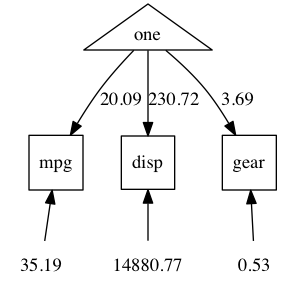
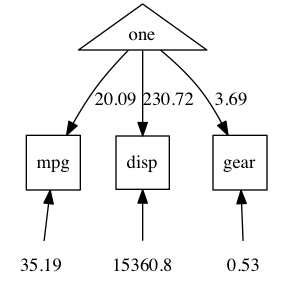
make the example work

diff --git a/_posts/2020-11-30-First-steps.md b/_posts/2020-11-30-First-steps.md
@@ -16,9 +16,10 @@ If you haven't installed devtools yet, [do that now](/models/tutorial/2020/12/10
 Once you have `devtools`, then you can update and load `umx`:
 
 ``` splus
-# install and load umx
-devtools::install_github("tbates/umx")
+# load umx library
 library("umx")
+# note: the umx philosophy extends to help ?umx is not just boilerplate documentation.
+# All functions are fully documented, with awesome complete examples.
 ```
 
 <a name="overview"></a>
@@ -26,122 +27,144 @@ library("umx")
 Now, let's build, run, summarize, modify/compare, and display a model. Real science is all about comparing different theoretical predictions: the idea that there are, say, two forms of dyslexia is tested not against a null hypothesis that there are none, but against some competing model: that there is one form, for instance. Whereas the answer to "does this theory fit better than no theory" is always "yes" if we have enough subjects, that's an incredibly low bar, and doesn't lead to increases in knowledge: these come from pitting one model (human-created theory) against another, to see which is closer to the truth. This bed-rock metric of closer-further gives us a boot strap to iteratively choose the ideas (products of human creativity) that are ever closer to reality. 
 
 ### Two theories to compare
-Here, we begin with two patsy ideas: one that miles/gallon (mpg) goes up as car engine size goes down **and** as number of cylinders goes up (cyl). A contrasting theory might predict that it is only the number of cylinders that matters. We can drop number of cylinders to test the idea that the only determinant (in this confounded play dataset) of mpg is inches<sup>3</sup> of displacement.
+Here, we begin with two patsy ideas: one that miles/gallon (mpg) goes up as car engine size goes down **and** as car weight goes down (weight). A contrasting theory might predict that it is only weight that matters, not engine capacity. We can drop capacity to test the idea that the only determinant (in this confounded play dataset) of mpg is weight.
 
-We will use the built-in [mtcars](https://stat.ethz.ch/R-manual/R-devel/library/datasets/html/mtcars.html) data set. miles/gallon is `mpg`, displacement is `disp`, and cylinders is `disp`, with number of cylinders just coming along as a side-effect of increasing displacement.
+We will use the built-in [mtcars](https://stat.ethz.ch/R-manual/R-devel/library/datasets/html/mtcars.html) data set. miles/gallon is `mpg`, displacement is `disp`, and weight is `wt`.
 
 We'll use umx to build both models, and compare them.
 
 #### Starting with what you know
 
-In `lm`, model 1 would be "mpg ~ disp + gear", and model 2, "mpg ~ disp"
+In `lm`, model 1 would be "mpg ~ disp + wt". Model 2 would be "mpg ~ disp"
 
 [Sewall Wright](http://en.wikipedia.org/wiki/Sewall_Wright"Wikipedia Entry: Sewall Wright") invented SEM to allow us to think in explicit graphs. So, here's what that language implies:
 
 ![model of mpg](/media/1_make_a_model/mpg_1a_theory.png "A model of Miles/gallon")
 
-Let's start off with something very simple: the means and variances of three raw variables.
+Let's start off with something very simple: the means and variances of three raw variables. This is also called an "independence model".
 
-With umxPath, you can specify a variance (a 2-headed path originating and temrinating on one variable) with the argument "var = "
-To specify a mean (a path from the constant one to a varaible), just use the argument "means ="
+The equivalent of `lm` is `umxRAM`. Like lm, we're going to feed this model container a data set (`data = mtcars`). The string "my_first_model" is a name that is used to refer to the model, and which is used in output as well. Just make it informative.
+
+``` splus
+m1 <- umxRAM("my_first_model", data = mtcars)
+```
+
+Now, instead of just one formula, we're going to give `umxRAM` a list of  `umxPaths` to specify all the lines, boxes, and circles in the figure above.
+
+With `umxPath`, you can specify a variance (a 2-headed path originating and terminating on one variable) with the argument `var =`
+To specify a mean (a path from the constant one to a variable), just use the argument `means =`
 
 ``` splus
 manifests = c("disp", "gear", "mpg")
-m1 <- umxRAM("big_motor_bad_mpg", data = mtcars[, manifests],
+m1 <- umxRAM("big_motor_bad_mpg", data = mtcars,
 	umxPath(var   = manifests),
 	umxPath(means = manifests)
 )
 m1 = mxRun(m1)
-plot(m1, std=F)
+plot(m1, std = F)
 ```
+
+Now we can run this model with `mxRun`, get a summary, and even plot the output.
+
+``` splus
+m1 = mxRun(m1)
+umxSummary(m1)
+plot(m1, std = F)
+```
+
+nb: *You'll need to have GraphViz installed for plot to work flawlessly: if it doesn't work, don't worry. Later posts will explain how to get great graphics*!
+
+Here's the plot:
 
 ![independence model](/media/1_make_a_model/independence model.png "Independence model of three variables")
 
-This should also be a warning to us: the variances are very different from one another... Good advice to help the optimiser get to a solution in our real model might be to convert the displacement into litres (x 0.0163871). We'll ignore this for now.
+This should also be a warning to us: the variances are very different from one another... Good advice to help the optimiser get to a solution in our real model might be to convert the displacement into litres. We'll ignore this for now.
 
-As you can see, this is an "independence model": No covariances were included, so all variables are modeled as uncorrelated. It would fit poorly in this case.
+As you can see, this is an "independence model": No covariances were included, so all variables are modelled as uncorrelated. It would fit poorly in this case.
 
 ``` splus
 umxSummary(m1)
 ```
+χ²(90) = 52.39, p < 0.001; CFI = 0; TLI = 0; RMSEA = 0.717
 
-χ²(90) = 52.37, p < 0.001; CFI = 0; TLI = 0; RMSEA = 0.717
-
-Yikes... clearly some unmodelled covariance here... Let's apply our theorized models.
+Yikes... clearly some un-modelled covariance here... Let's apply our theorized models.
 
 ``` splus
-m1 <- umxRAM("big_motor_bad_mpg", data = mxData(mtcars[,manifests], type="raw"),
+m1 <- umxRAM("big_and_heavy", data = mxData(mtcars, type = "raw"),
 	# One headed paths
-	umxPath(from = c("disp", "gear"), to = "mpg"),
+	umxPath(from = c("disp", "wt"), to = "mpg"),
 	# Means
-	umxPath(means = manifests),
+	umxPath(means = c("disp", "wt", "mpg")),
 	# Variances and covariances
-	umxPath(cov = c("disp", "gear")),
-	umxPath(var = manifests)
-	# TODO add a check for "Error in i[[1]] : this S4 class is not subsettable" data provided not as data = 	
+	umxPath(cov = c("disp", "wt")),
+	umxPath(var = c("disp", "wt", "mpg"))
 )
 
 # Now mxRun, and show a summary.
-m1 = umxRun(m1)
+m1 = mxRun(m1)
 umxSummary(m1, show = "std")
 ```
 
 This saturated model fits perfectly, of course.
-So `umxSummary` shows that m1 fits well: χ²(2) = 0, p 1.000; CFI = 1.042; TLI = 1.063; RMSEA = 0.
+So `umxSummary` shows that m1 fits well: χ²(87) = 0.02, p < 0.001; CFI = 1; TLI = 1; RMSEA = 0
 
-We also get path estimates ("**show** = *std*" requests both the standardized paths).
+We also get path estimates ("**show** = *std*" requests the standardized paths).
 
-|   | name           | Estimate | Std.Error | Std.Estimate | Std.SE |
-|:--|:---------------|:---------|:----------|:-------------|:-------|
-| 1 | disp -> mpg    |  -0.041  | 0.0056    | -0.840       | 0.115  |
-| 2 | gear -> mpg    |   0.111  | 0.9363    |  0.014       | 0.115  |
-| 3 | mpg <-> mpg    |  10.226  | 2.5975    |  0.282       | 0.072  |
-| 4 | disp <-> gear  | -50.803  | 9.9254    | -0.556       | 0.109  |
+|   | name           | Estimate | Std.Error | CI (SE-based)       |
+|:--|:---------------|:---------|:----------|:--------------------|
+| 1 |    disp_to_mpg |  -0.37   | 1.8e-01   |-0.37 [-0.72, -0.02] |
+| 2 |      wt_to_mpg |  -0.54   | 1.8e-01   | -0.54 [-0.89, -0.2] |
+| 3 |   mpg_with_mpg |   0.21   | 6.8e-02   |   0.21 [0.08, 0.35] |
+| 4 | disp_with_disp |   1.00   | 1.9e-12   |            1 [1, 1] |
+| 5 |   disp_with_wt |   0.89   | 3.7e-02   |   0.89 [0.82, 0.96] |
+| 6 |     wt_with_wt |   1.00   | 2.5e-13   |            1 [1, 1] |
+
 
 We can plot these standardized (or raw) coefficients on a diagram the way Sewall Wright would like us too:
 
 ``` splus
-plot(m1)
+plot(m1, showMeans=F)
 ```
+
 ![model 1](/media/1_make_a_model/mtcar2.png "Model 1")
 
 ```splus
     confint(m1)
 ```
 
-| Parameter      | lbound   | estimate  | ubound      |
-|:---------------|:---------|:----------|:------------|
-| cyl_to_mpg     | -2.974   | -1.587    | -0.201      |
-| disp_to_mpg    | -0.040   | -0.021    | -0.001      |
-| mpg_with_mpg   | 5.337    | 8.461     | 15.006      |
-| cyl_with_cyl   | 1.959    | 3.090     | 5.346       |
-| cyl_with_disp  | 104.881  | 193.432   | 839.877     |
-| disp_with_disp | 4537.337 | 14881.785 | 1976322.799 |
+|                | lbound   | estimate  | ubound       |
+|:---------------|:---------|:----------|:-------------|
+| disp_to_mpg    | -0.035   | -0.018    | 0.000        |
+| wt_to_mpg      | -5.641   | -3.351    | -1.060       |
+| mpg_with_mpg   | 4.866    | 7.709     | 13.642       |
+| disp_with_disp | 4536.833 | 15360.850 | 24081337.389 |
+| disp_with_wt   | 58.605   | 107.685   | 286.965      |
+| wt_with_wt     | 0.589    | 0.951     | 1.590        |
+| one_to_mpg     | 30.631   | 34.960    | 39.291       |
+| one_to_disp    | 173.627  | 230.815   | 287.822      |
+| one_to_wt      | 2.871    | 3.218     | 3.560        |
 
 What did lm think these should be?
 
 ```splus
-l1 = lm(mpg ~ 1 + disp + gear, data = mtcars)
+l1 = lm(mpg ~ 1 + disp + wt, data = mtcars)
 coef(l1)
 ```
 
 | (Intercept) | disp        | cyl         |
 |:------------|:------------|:------------|
-| 34.66099474 | -0.02058363 | -1.58727681 |
-
+| 34.96055404 | -0.01772474 | -3.35082533 |
+   
 ```splus
     confint(l1)
 ```
-
-| Parameter   | 2.5 %       | 97.5 %        |
-|:------------|:------------|:--------------|
-| (Intercept) | 29.45178692 | 39.8702025668 |
-| disp        | -0.04156253 | 0.0003952592  |
-| cyl         | -3.04316181 | -0.1313918048 |
+|             | 2.5         | %            |
+|:------------|:------------|:-------------|
+| (Intercept) | 30.53357368 | 39.387534392 |
+| disp        | -0.03652128 | 0.001071794  |
+| wt          | -5.73173459 | -0.969916079 |
 
 If you were happy with that, [click here](#modify) to go to modify and compare.
-
-To go over what we've just seen slowly... just read on where I break that down into a series of steps:
 
 
 <a name="modify"></a>
@@ -149,26 +172,42 @@ To go over what we've just seen slowly... just read on where I break that down i
 
 [Fundamentally](http://www.mii.ucla.edu/causality), modeling is in the service of understanding causality and we do that primarily via model comparison: Better theories fit the data better than do worse theories.
 
-So, "do more gears give better miles per gallon"?
+So, we can ask questions like "does lower weight give better miles per gallon"?
 
-In graph terms, this is asking, "is the path from to gear to mpg significant?" There are two ways to test this with umx.
+In graph terms, this is asking, "is the path from to wt to mpg significant?" There are two ways to test this with umx.
 
-First, a way that doesn't involve learning anything new: We can modify m1 by overwriting the existing path with one fixing the value to zero.
+First, we can modify m1 by overwriting the existing path with one fixing the value to zero.
+
+In base OpenMx code we'd say:
 
 ``` splus
-m2 = mxModel(m1, mxPath(from = "gear", to = "mpg", free = F, values = 0)
+m2 = mxModel(m1, mxPath(from = "wt", to = "mpg", free = F, values = 0)
 m2 = mxRun(m2)
 ```
-That gives us a second model, with a zero path from gear to mpg.
 
-The second way, which you will use often, takes advantage of labels and umxReRun()
+With umxPath we can save some typing and use `fixedAt`
 
 ``` splus
-m2 = umxReRun(m1, update = "gear_to_mpg", name = "no effect of gear")
+m2 = mxRun(mxModel(m1, umxPath("wt", to = "mpg", fixedAt = 0))
 ```
-By default, umxReRun fixes the value of matched labels to zero. Learn more at the [umxReRun tutorial](umxReRun tutorial).
 
-**tip**: To discover the labels in a model, use umxGetParameters(model)
+That gives us a second model, with a zero path from gear to mpg.
+
+`umxReRun` gives us a nifty second way, using labels. You will use this often.
+
+``` splus
+m2 = umxReRun(m1, update = "wt_to_mpg", name = "no effect of wt")
+```
+By default, `umxReRun` fixes the value of matched labels to zero. Learn more at the [umxReRun tutorial](umxReRun tutorial).
+
+**tip**: To discover the labels in a model, use `umxGetParameters(model)`
+
+**gotcha**: mxModel doesn't add these labels by default –&nbsp; `umxModel` does.
+
+You can also add labels to a model (or matrix) using`umxLabel`, and `umxRun` has the option to `addLabels`
+
+**tip**: To discover the labels in a model, use `umxGetParameters(model)`
+
 <a name="compare"></a>
 ## Compare two models
 
@@ -180,20 +219,21 @@ umxCompare(m1, m2)
 
 The table below shows that dropping this path did not lower fit significantly(χ²(1) = 0.01, p = 0.905):
 
-| Comparison        | EP | Δ -2LL     | Δ df  | p     | AIC   | Compare with Model |
-|:------------------|:---|:-----------|:------|:------|:------|:-------------------|
-| <NA>              | 4  | NA         | NA    | <NA>  | -4.00 | big_motor_bad_mpg  |
-| no effect of gear | 3  | 0.0141     | 1     | 0.905 | -5.98 | big_motor_bad_mpg  |
+|Model           |EP |Δ -2LL    |Δ df|p    |AIC     |Compare with Model|
+|----------------|---|----------|----|-----|--------|-------------|
+|big_and_heavy   | 9 |419.1343  |    |     |        |             |
+|no effect of wt | 8 |8.0416014 | 1  |0.005|425.1759|big_and_heavy|
 
+So, weight seems to matter, and you can increase mpg (and acceleration) by lightening your car.
 
 Advanced tip: `umxReRun()` can modify, run, and compare all in 1-line
 
 ``` splus
-	m2 = umxReRun(m1, update = "gear_to_mpg", name = "drop effect of gear"), comparison = TRUE)
+m2 = umxReRun(m1, update = "gear_to_mpg", name = "drop effect of gear"), comparison = TRUE)
 ```
 
 **Footnotes**
-[^1]: `devtools` is @Hadley's package for using packages not on CRAN.
+[^1]: `devtools` is @Hadley's package for using packages on GitHub.
 
 <!--
 #### TODO

diff --git a/_posts/2020-12-20-Philosophy.md b/_posts/2020-12-20-Philosophy.md
@@ -12,9 +12,7 @@ A principle can be a great guide to keep practice aligned with goals.
 
 Our principle in designing `umx` is that it should be the best possible language for expressing causal hypotheses.
 
-That's the answer to "Why this package?": To make modeling easier.
-
-`umx` will help you:
+That's the answer to "Why this package?": To make modeling easier by giving you a vocabulary that will help you:
 
 1. Express theories in SEM models.
 2. Test competing theories.
@@ -23,8 +21,8 @@ That's the answer to "Why this package?": To make modeling easier.
 
 To this end, `umx` provides a compact vocabulary of functions for doing these four things as fast as possible.
 
-OpenMx is a fantastic base - often you'll stick with core OpenMx functions: Using mxPath instead of umxPath, or summary instead of umxSummary.
+OpenMx is a fantastic base - often you'll stick with core OpenMx functions: Using `mxPath` instead of `umxPath`, or `summary` instead of `umxSummary`.
 
-That said, R has too many cases where "you can do it lots of ways". We want `umx` to provide just one way that makes your work easier so you do better science.
+That said, R has too many cases where "*you can do it lots of ways*". We want `umx` to provide just one way that makes your work easier so you do better science.
 
 That's it :-) On to the modeling!

diff --git a/_posts/2020-12-10-Install.md b/_posts/2020-12-10-Install.md
@@ -43,8 +43,14 @@ PS: On windows you might need
 install_github("tbates/umx", args = "--no-multiarch")
 ```
 
-On old versions of devtools you might need
+If this doesn't work, your first check you've got a current version of devtools: Very old versions might need
 
 ``` splus
 install_github("umx", username = "tbates")	
+```
+But if that's you, you should
+
+``` splus
+install.packages("devtools")
+library("devtools")
 ```
